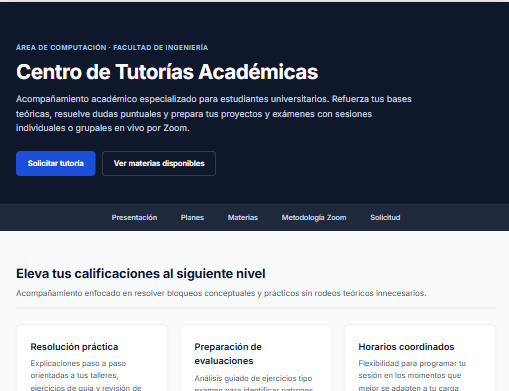
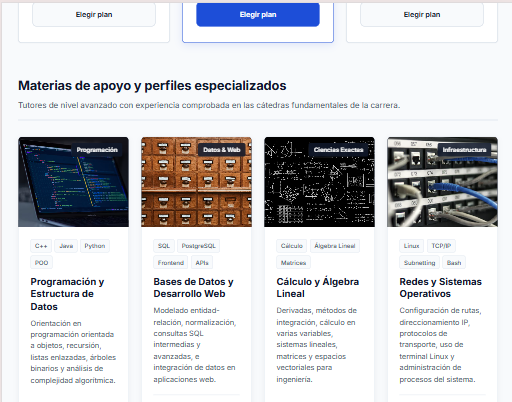
correcciones readme

diff --git a/README.md b/README.md
@@ -120,5 +120,3 @@ Las capturas de pantalla que acreditan la correcta adaptación del sitio en tres
 - DuRocher, D. (2021). *HTML and CSS QuickStart Guide*. ClydeBank Media.
 - Frain, B. (2022). *Responsive Web Design with HTML5 and CSS* (4.ª ed.). Packt.
 - Robbins, J. N. (2018). *Learning Web Design* (5.ª ed.). O’Reilly Media.
-```
-
